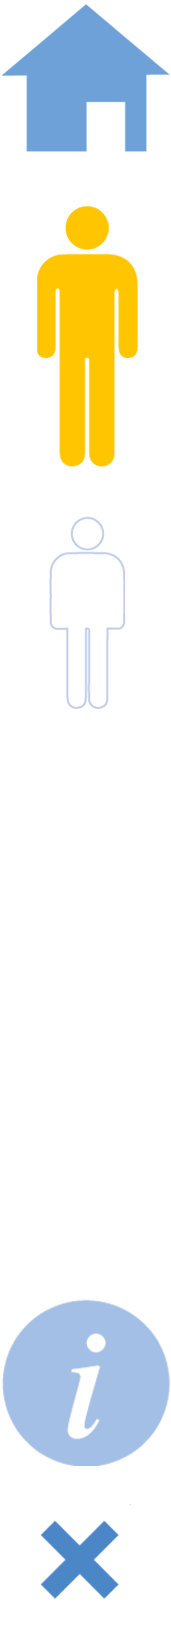
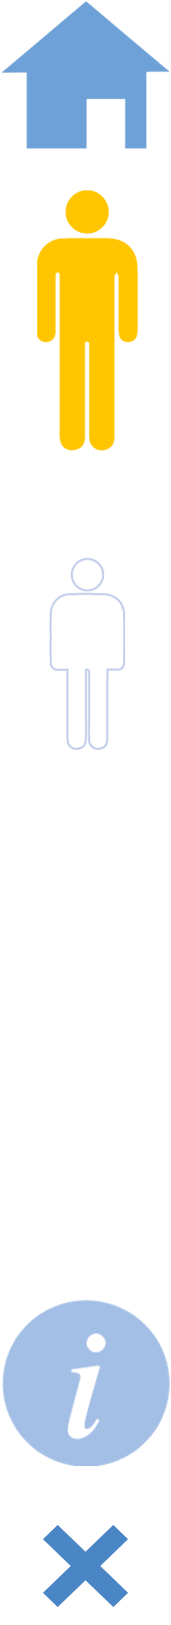
Changes: - Popup menu completed =: 4.5 hrs => total: 15.5 hrs

diff --git a/Remicade_Adult_Paediatric_2016/Adult-IBD-201602/R01-Adult-IBD/css/style.css b/Remicade_Adult_Paediatric_2016/Adult-IBD-201602/R01-Adult-IBD/css/style.css
@@ -67,15 +67,15 @@ header { height: 68px; padding: 0 40px; position:relative; }
 	.remicade-logo { width:425px; height:45px; top: 30px; left:38px; background-image:url('../img/remicade_logo.png'); }
 	.remicade-logo.right { left:auto; right: 126px; top:15px; background-position-x:275px; }
 	.btn-menu li { width:36px; height:36px; margin: 0 auto 22px; position:relative; box-shadow: 0 0 0 3px #fff inset;  }
-	.btn-menu li, .btn-home > i { background-image:url('../img/icons.png');  }
-	.btn-menu .btn-home { width:inherit; height:43px; padding-top:35px; -webkit-border-radius: 0 0 10px 10px;border-radius:0 0 10px 10px; text-align:center; color:#006eb8; font-size:12px; background-color:#fff; background-image:none; }
+	.btn-menu li, .btn-home > i, .main-menu > span, .level1 .home > span { background-image:url('../img/icons.png');  }
+	.btn-menu .btn-home { width:inherit; height:48px; padding-top:30px; -webkit-border-radius: 0 0 10px 10px;border-radius:0 0 10px 10px; text-align:center; color:#006eb8; font-size:12px; background-color:#fff; background-image:none; }
 	.btn-menu .btn-home.janssen { background-color:transparent; box-shadow:none; }
 	.btn-menu .btn-home.janssen i, .btn-menu .btn-home.janssen:before { display:none; }
 	.btn-menu .btn-home.janssen:after { content:""; position:absolute; width:110px; height:60px; background-image:url('../img/janssen_logo.png'); right: 20px; top: 20px;}
 	.btn-home > i { display:block; width:52%; height: 34px; margin:0 auto; }
-	.btn-home:before { content:"Main menu"; position:absolute; top:12px; left:0; right:0; margin:0 auto; }
+	.btn-home:before { content:"Main menu"; position:absolute; top:8px; left:0; right:0; margin:0 auto; }
 	.remicade-logo, .btn-menu li, 
-		.btn-menu .btn-home.janssen:after, .btn-home > i, .graph { background-repeat: no-repeat; background-size:100% auto; }
+		.btn-menu .btn-home.janssen:after, .btn-home > i, .feature, .main-menu > span, .level1 .home > span { background-repeat: no-repeat; background-size:100% auto; }
 	.btn-menu .btn-ref { background-position-y:-161px; }
 	.btn-menu .btn-mpi { background-position-y:-218px; }
 	.btn-mpi, .btn-ref, .btn-info { }
@@ -89,16 +89,16 @@ header { height: 68px; padding: 0 40px; position:relative; }
 .menu { position:absolute; bottom: -4px; } 
 	.menu, .menu li > ul { position:absolute; z-index:20; }
 	.menu > li { float:left; margin-right: 3px; padding: 10px; font-family: 'ClarendonBld'; position:relative; }
-		.menu > li, .menu li > ul { -webkit-border-top-left-radius:10px;border-top-left-radius:10px; -webkit-border-top-right-radius:10px;border-top-right-radius:10px; }
+		.menu > li, .menu li > ul { -webkit-border-radius:7px 7px 0 0; border-radius:10px 10px 0 0; }
 	.menu > li, .main-menu { color:#0076c0; }
 	.menu > li:last-child { margin-right: 0; }
 	.content .menu { right:30px; }
 	.content .menu > li { background:#ffffff; font-size:12px; width: auto; height:32px; margin-right: 5px; line-height: 14px; padding:10px 11px; }
 	.content .menu > li span { display:block; height:inherit; }
 	.content .menu .active { background:#ffc40c; }
-	.menu > li:before, .menu > li:after { content:""; position:absolute; }
-	.menu > li:before { top:.7em; right:6px; width:18px; height:18px; -webkit-border-radius:100px; border-radius:100px; border:1px solid #0076c0; }
-	.menu > li:after { right:.7em; top:1.05em; width:0; height:0; border-top:4px solid transparent; border-bottom:4px solid transparent; border-left:8px solid #0076c0; }
+	.play li:before, .play li:after { content:""; position:absolute; }
+	.play li:before { top:.7em; right:6px; width:18px; height:18px; -webkit-border-radius:100px; border-radius:100px; border:1px solid #0076c0; }
+	.play li:after { right:.735em; top:1.05em; width:0; height:0; border-top:4px solid transparent; border-bottom:4px solid transparent; border-left:7px solid #0076c0; }
 	.menu li > ul { width:300px; background: rgba(215,242,250, 0.8); top: -65px; display:none;}
 		.menu li li { float:left; width:70px; height:28px;  padding:10px 7px; border-left:1px solid rgba(255,255,255, 0.8); border-right:1px solid #93c6db;}
 		.menu li li:first-child { border-left:none; -webkit-border-top-left-radius:10px;border-top-left-radius:10px;}
@@ -107,19 +107,47 @@ header { height: 68px; padding: 0 40px; position:relative; }
 		.menu li > ul:after { content:''; position:absolute; left:0; right: 0; margin: 0 auto; bottom:-20px; width:0; height:0; border-top:20px solid rgba(215,242,250, 0.8);border-right:15px solid transparent;border-left:15px solid transparent; }
 		
 	.content .menu li, .popup, .btn-home, .menu-top, .footnote, .tabular table, .sanserif, .item-list li { font-family: 'AkzidGroLig'; }
-.popup, .main-menu, .main-menu .close, .graph, .quote, .footnote { position:absolute; z-index:5; }
+.popup, .main-menu, .main-menu .close, .feature, .quote, .footnote { position:absolute; z-index:5; }
 	.popup { width:780px; left:62px; top:167px; z-index:199; background:#9e9e9e; padding:40px 60px; color:#fdf0d0; font-size:19px; line-height:24px; box-shadow:3px 5px 10px rgba(64,66,66, 0.7); display:none; }
 	.popup.ref li { margin-bottom:7px; }
-	.popup::after { content:''; position:absolute; width:0; height:0;top: -35px; right:8px;  border-bottom:60px solid #9e9e9e;border-left:15px solid transparent;border-right:15px solid transparent; -webkit-transform:rotate(25deg);transform:rotate(25deg) }
+	.popup:after { content:''; position:absolute; width:0; height:0;top: -35px; right:8px;  border-bottom:60px solid #9e9e9e;border-left:15px solid transparent;border-right:15px solid transparent; -webkit-transform:rotate(25deg);transform:rotate(25deg) }
 	.popup h3 { font-family: 'AkzidGroBld'; font-size:inherit; line-height:inherit; color:inherit; margin-bottom:8px; }
 	.popup.study-design { top:282px; }
 	.popup strong, .note { font-weight:normal; font-family: 'AkzidGroBld'; }
 	.popup p { margin-bottom: 12px; }
-.main-menu { width:930px; top:45px; right: 22px; padding:30px; background:#ffffff; z-index:110; -webkit-border-radius:12px;border-radius:12px; box-shadow:1px 1px 7px rgba(6, 36, 55, 0.7);  display:none; }
-	.main-menu ul { overflow:hidden;}
-	.main-menu .top-level > li { float:left;  font-size: 20px;line-height: 22px; margin: 0 6px; width:145px; }
-	.main-menu ul > li:first-child { margin-left: 0;  }
-	.main-menu ul > li:last-child { margin-right:0; }
+.main-menu { width:524px; top:60px; right: 88px; padding:44px; font-size: 28px;line-height: 32px; background:#ffffff; -webkit-border-radius:14px;border-radius:14px; z-index:110;/*display:none;*/ }
+	.main-menu li { font-family: 'ClarendonBld'; font-size: 15px;line-height: 16px; position:relative; -webkit-border-radius:7px; border-radius:7px; }
+	.level1 { margin-top:45px; }
+	.level1 > li { margin-bottom:12px; letter-spacing:-0.02em; }
+	.level1 > li:last-child { margin-bottom:0;  }
+	.level1 > li, .level1 .home > span { height:74px; }
+	.level1 > li li, .level1 .home > span { float:left; }
+	.level1 > li li { width:147px; height:54px; padding:10px 12px; background:#fdc400; margin-right:10px; }
+	.level1 > li li:last-child { margin-right:0; }
+	.level1 > li .home { padding:0; width:162px; background:none; }
+	.level1 > li .home:before { content:"Main menu"; border:none; font-family: 'AkzidGroLig'; font-size:28px; line-height:22px; top:-45px; right:-192px; width:100%; height:auto;  }
+	.level1 .play li:after { right:0.78em; top:1.1em; }
+	.level1 .home > span:first-child { width:64px; margin-right:11px; }
+	.level1 .home > span { width:42px; background-position-y:12px; }
+	.level1 .home > span:nth-child(2) { background-position-y:-38px; }
+	.level1 .home > span:last-child { background-position-y:-113px; margin-left:-2px; }
+	.level1 > li:nth-child(2) { padding:10px 12px; height:56px; background:#8bb0de; }
+	.level1 > li:nth-child(2) li { width:141px; height:36px; }
+	.level1 > li:nth-child(2) li:first-child { width:150px; padding:0; border-radius:0; background:none; }
+	.level1 > li .home:after,
+		.level1 > li:nth-child(2) li:first-child:before, 
+		.level1 > li:nth-child(2) li:first-child:after { display:none; }
+	.level1 .cd li:last-child { background:#ea8a2d; }
+	.level1 .uc li:nth-child(n+2) { background:#a4c0e6; }
+	.level1 > .common li { width:100px; background:#f6c597; }
+	.level1 > .common li:first-child { width:122px; background:#bccfec; } 
+	.level1 > .common li:nth-child(2) { width:76px; background:#b3b2b2; }
+	.level1 > .common li:last-child { background:#f9f0d1; }
+	.level1 > .common li:nth-child(n+2) { padding-top:19px; height:45px; }
+	
+	
+	/*.main-menu ul { overflow:hidden; font-size: 20px;line-height: 22px;}
+	.main-menu li li:last-child { margin-right:0; }
 	.main-menu ul > li > span { display: block; padding:12px 10px; height: 66px;-webkit-border-radius:10px 10px 0 0; border-radius:10px 10px 0 0; }
 	.main-menu ul > li:first-child > span { background:#ffc40c; }
 	.main-menu ul > li:nth-child(2) > span { background:#ee8c3a; }
@@ -128,11 +156,11 @@ header { height: 68px; padding: 0 40px; position:relative; }
 	.main-menu ul > li:nth-child(5) > span { background:#a7aaaa; }
 	.main-menu ul > li:last-child > span { background:#c5d1ec; }
 	.main-menu .top-level li li { font-size: 16px; line-height:20px; padding:14px 10px; background:#f2f4f5; border-bottom:2px solid #fff; }
-	.main-menu .top-level li li:last-child { -webkit-border-bottom-left-radius:10px;border-bottom-left-radius:10px; -webkit-border-bottom-right-radius:10px;border-bottom-right-radius:10px;}
-.menu-top { font-size:25px; margin-top:25px; padding: 0 0 30px 70px; position:relative; }
-	.menu-top > span { position:absolute; top: -30px; left:0; width:60px; height:50px; background:url('../img/large_blue_house.png') center center no-repeat; background-size:auto 100%; }
-	.main-menu .close { width:35px; height:35px; right:25px; top:25px; background: url('../img/blue_close.png') 0 0 no-repeat;background-size:auto 100%; }
-.graph { top:154px; left: 15px; width: 800px; height:310px; }
+	.main-menu .top-level li li:last-child { -webkit-border-bottom-left-radius:10px;border-bottom-left-radius:10px; -webkit-border-bottom-right-radius:10px;border-bottom-right-radius:10px;}*/
+/*.main-menu .home { display:block; width:60px; height:50px; font-size:25px; margin-top:15px; background-position-y:-150px;}*/
+	/*.menu-top > span { position:absolute; top: -30px; left:0; width:60px; height:50px; background:url('../img/large_blue_house.png') center center no-repeat; background-size:auto 100%; }*/
+	.main-menu .close { width:30px; height:30px; right:20px; top:20px; background-position-y:-260px; border:1px solid #006eb8; }
+.feature { top:154px; left: 15px; width: 800px; height:310px; }
 .quote { width:140px; height:360px; padding:20px; top:165px; right:0px; background:#929595; color:#faecc9; font-size:17px; line-height:20px; }
 .footnote { font-size:10px; line-height:12px; bottom:180px; left:104px; height:30px; width:450px; }
 .item-list { margin:7px 0 0 15px; list-style:disc; }

diff --git a/Remicade_Adult_Paediatric_2016/Adult-IBD-201602/R01-Adult-IBD/R01-Adult-IBD.html b/Remicade_Adult_Paediatric_2016/Adult-IBD-201602/R01-Adult-IBD/R01-Adult-IBD.html
@@ -40,12 +40,8 @@
     	<article class="inner-wrapper spiral">
        		<div class="animated zoomInDown"></div>
             <h2>REMICADE for Adult IBD</h2>
-            <aside class="main-menu">
-            	<h2>REMICADE for IBD</h2>
-                <span class="adult">Adult</span>
-                <span class="paediatric">Paediatric</span>
-            </aside>
-            <ul class="menu">
+           
+            <ul class="menu play">
             	<li class="cd">Crohn’s<br />disease</li>
                 <li class="fistulising">Fistulising<br />Crohn’s&nbsp;disease </li>
                 <li class="uc">Ulcerative<br />Colitis</li>
@@ -68,60 +64,34 @@
         
         <!-- popup main menu-->
         <aside class="main-menu">
-        <span class="close"></span>
-        <div class="menu-top">Main menu <span></span></div>
-        	<ul class="top-level">
-            	<li class="crohn"><span>Crohn’s <br />disease</span>
-                	<ul>
-                    	<li class="disease">Disease Course</li>
-                        <li class="response">Response &amp; Remission</li>
-                        <li class="mucosal">Mucosal Healing</li>
-                        <li class="qol">Qol</li>
-                        <li class="hosp">Hosp/Surg</li>
-                        <li class="steroids">Steroids</li>
-                        <li class="switch">Switch</li>
-                    </ul>
+        <span class="close circle"></span>
+        <!--<div class="menu-top">Main menu<span></span></div>-->
+        	<ul class="level1">
+            	<li class="cd">
+                	<ul class="play">
+                		<li class="home" data-slide="home">
+                        	<span></span>
+                        	<span></span>
+                        	<span></span>
+                        </li>
+                		<li data-slide="cd">Crohn’s<br />disease</li>
+                		<li data-slide="fist">Fistulising<br />Crohn’s disease</li>
+                	</ul>
                 </li>
-                <li class="fistulising"><span>Fistulising <br />Crohn’s disease</span>
-                	<ul>
-                    	<li class="fh">Fistula Healing</li>
-                        <li class="hs">Hosp/Surg</li>
-                    </ul>
+                <li class="uc">
+                	<ul class="play">
+                    	<li data-slide="uc">Ulcerative<br />Colitis</li>
+                		<li data-slide="ms">Moderate<br />Severe</li>
+                		<li data-slide="as">Acute<br />Severe</li>
+                	</ul>
                 </li>
-                <li class="paediatric"><span>Paediatric <br />Crohn’s disease</span>
-                	<ul>
-                        <li class="response">Response &amp;&nbsp;Remission</li>
-                        <li class="qol">QoL</li>
-                        <li class="steroids">Steroids</li>
-                        <li class="height">Height Status</li>
-                    </ul>
-                </li>
-                <li class="safety"><span>Safety <br />&amp;&nbsp;Dosing</span>
-                	<ul>
-                    	<li class="sty">Safety</li>
-                        <li class="mortality">Mortality</li>
-                        <li class="infections">Serious Infections</li>
-                        <li class="neoplasia">Neoplasia</li>
-                        <li class="hstcl">HSTCL</li>
-                        <li class="infusion">Infusion reactions</li>
-                        <li class="dosing">Dosing</li>
-                    </ul>
-                </li>
-                <li class="adherence"><span>Adherence</span>
-                	<ul>
-                    	<li class="fa">Facts</li>
-                        <li class="ty">Types</li>
-                        <li class="ib">IBD</li>
-                        <li class="rk">Risk</li>
-                    </ul>
-                </li>
-                <li class="preference"><span>Preference</span>
-                	<ul>
-                    	<li class="pc">Patient Choice</li>
-                        <li class="ef">Efficacy</li>
-                        <li class="df">Dosing Frequency</li>
-                        <li class="si">Self-Injecting</li>
-                    </ul>
+                <li class="common">
+                	<ul class="play">
+                		<li data-slide="st">Safety<br />& Tolerability</li>
+                		<li data-slide="do">Dosing</li>
+                		<li data-slide="ad">Adherence</li>
+                		<li data-slide="pr">Preference</li>
+                	</ul>
                 </li>
             </ul>
         </aside>
@@ -132,8 +102,6 @@
 <script type="text/javascript" src="js/script.js"></script>
 <script type="text/javascript">
 	$( function(){
-		
-		hideShowElements($('.btn-home'), $('.main-menu'));
 		
 		//references
 		goToSlide('adult', 'Adult-IBD');

diff --git a/Remicade_Adult_Paediatric_2016/Adult-IBD-201602/R01-Adult-IBD/js/script.js b/Remicade_Adult_Paediatric_2016/Adult-IBD-201602/R01-Adult-IBD/js/script.js
@@ -4,10 +4,16 @@ $( function(){
 	$(document).on('touchmove',function(e){
  		e.preventDefault();
 	});
-	var wrapper = $('.content-wrapper');
-	
+	var wrapper = $('.content-wrapper'),
+		menu = $('.main-menu');
+	//initialise menu & ref buttons
+	hideShowElements($('.btn-home'), menu);
 	hideShowElements($('.btn-ref'), $('.ref'));
 	
+	//close menu
+	$('.close').on('tap', funcrtion(){
+		$(this).parent().fadeOut();
+	})
 	
 	
 	goToSlide('btn-mpi', 'CrohnsDisease000.zip');
@@ -19,10 +25,10 @@ $( function(){
 	goToSlide('adherence', 'CrohnsDisease500.zip');
 	goToSlide('preference', 'CrohnsDisease510.zip');
 	
-//remove animated
+	//remove animated
 	setTimeout( function(){
 		wrapper.find('.animated').removeClass('bounceInDown zoomInDown zoomIn');
-	}, 1000);	
+	}, 1100);	
 	
 });
 
